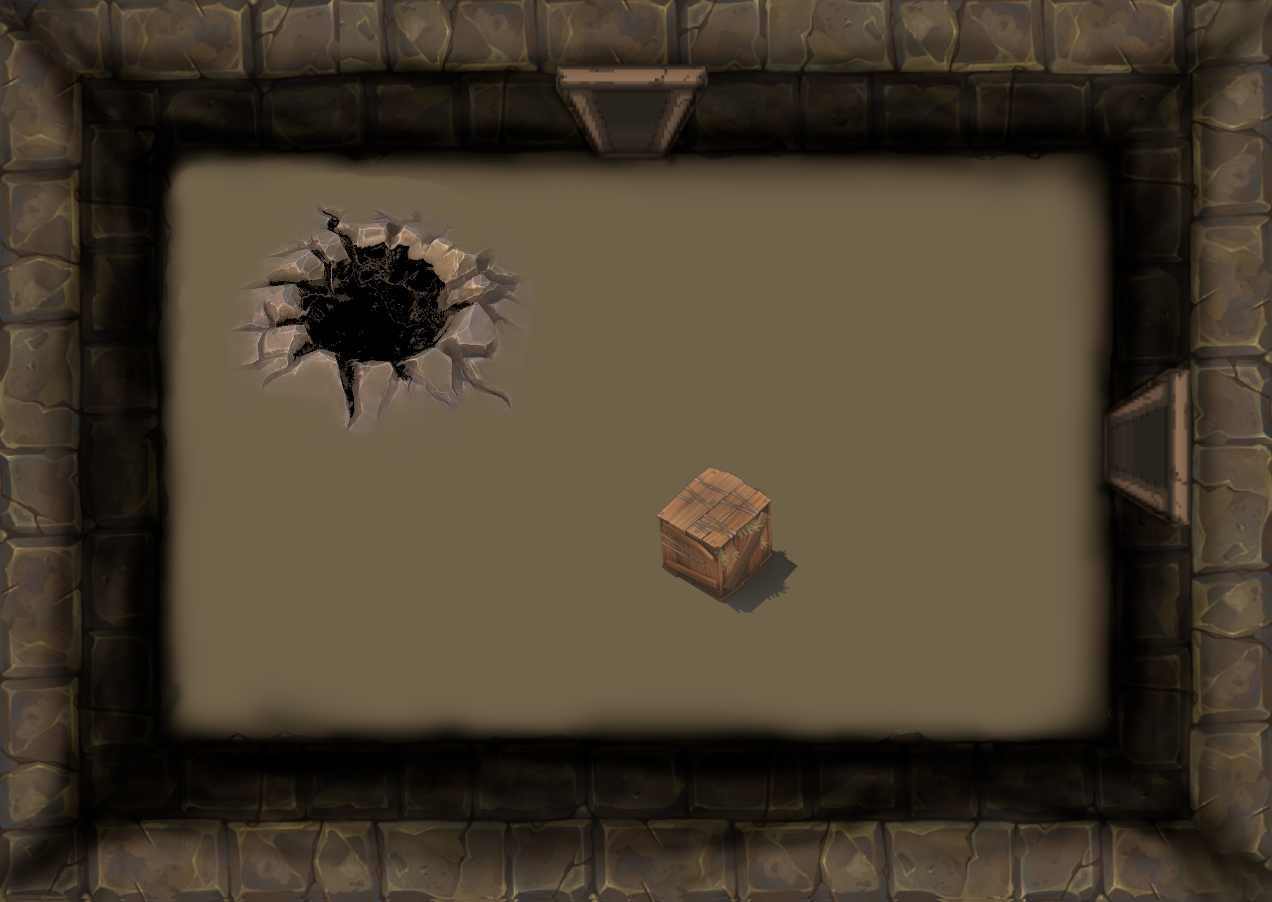
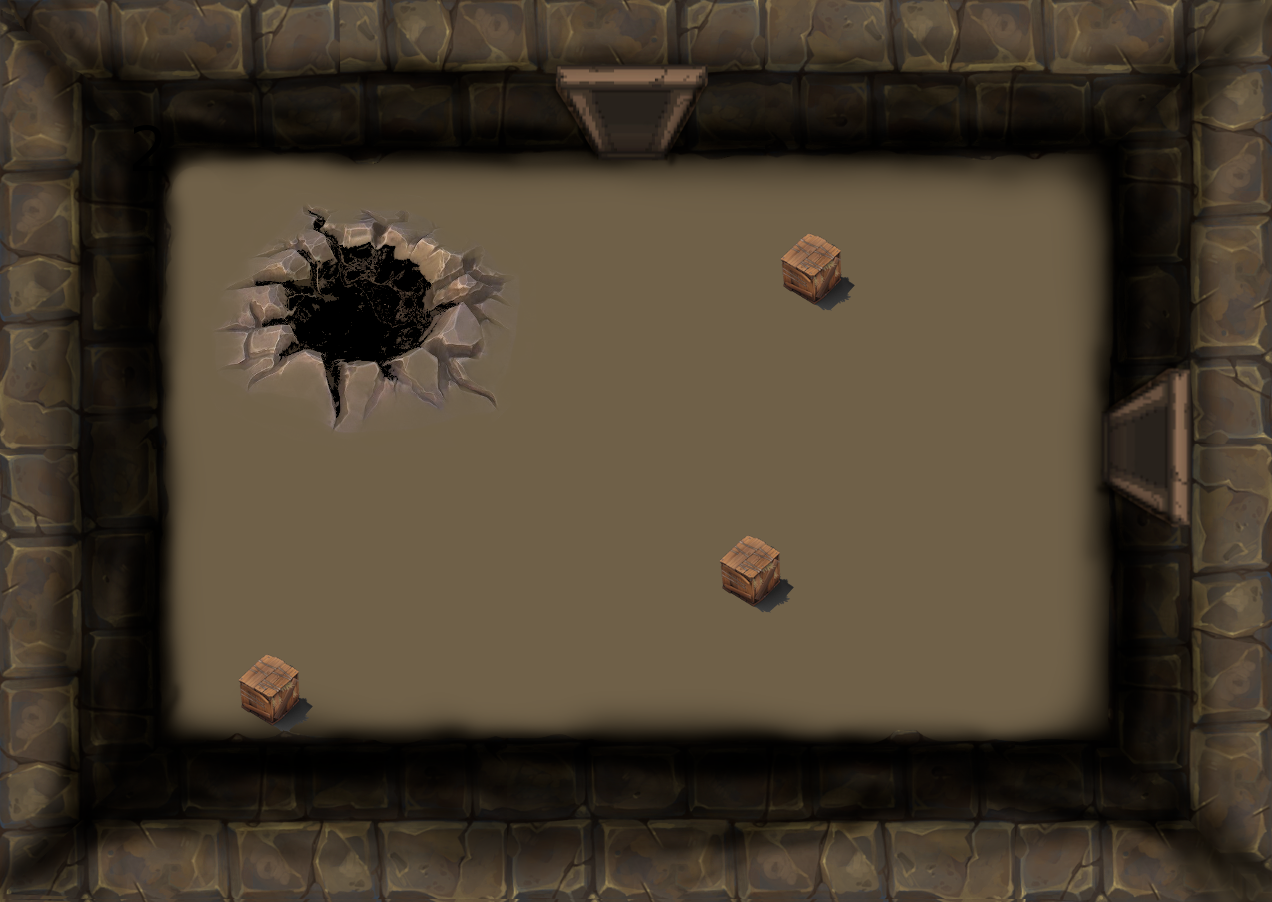
3 ok

diff --git a/src/project/igpe/classes/Maps.java b/src/project/igpe/classes/Maps.java
@@ -34,19 +34,19 @@ public class Maps {
 		
 		File img1 = new File("src/project/igpe/images/mappa2(SX-SU).png");
 		File img2 = new File("src/project/igpe/images/mappa2(SU-DX).png");
-		//File img3 = new File("src/project/igpe/images/sfondo2.jpg");
+		File img3 = new File("src/project/igpe/images/mappa2(DX-GIU).png");
 		
 		String txt1 = new String("src/project/igpe/maps/Template2door(SX-SU).txt");
 		String txt2 = new String("src/project/igpe/maps/Template2door(SU-DX).txt");
-		//String txt3 = new String("src/project/igpe/maps/TemplateMAP3.txt");
+		String txt3 = new String("src/project/igpe/maps/Template2door(DX-GIU).txt");
 		
 		contenitoreImg.add(img1);
 		contenitoreImg.add(img2);
-		//contenitoreImg.add(img3);
+		contenitoreImg.add(img3);
 
 		contenitoreTxt.add(txt1);
 		contenitoreTxt.add(txt2);
-		//contenitoreTxt.add(txt3);
+		contenitoreTxt.add(txt3);
 
 	}
 	
